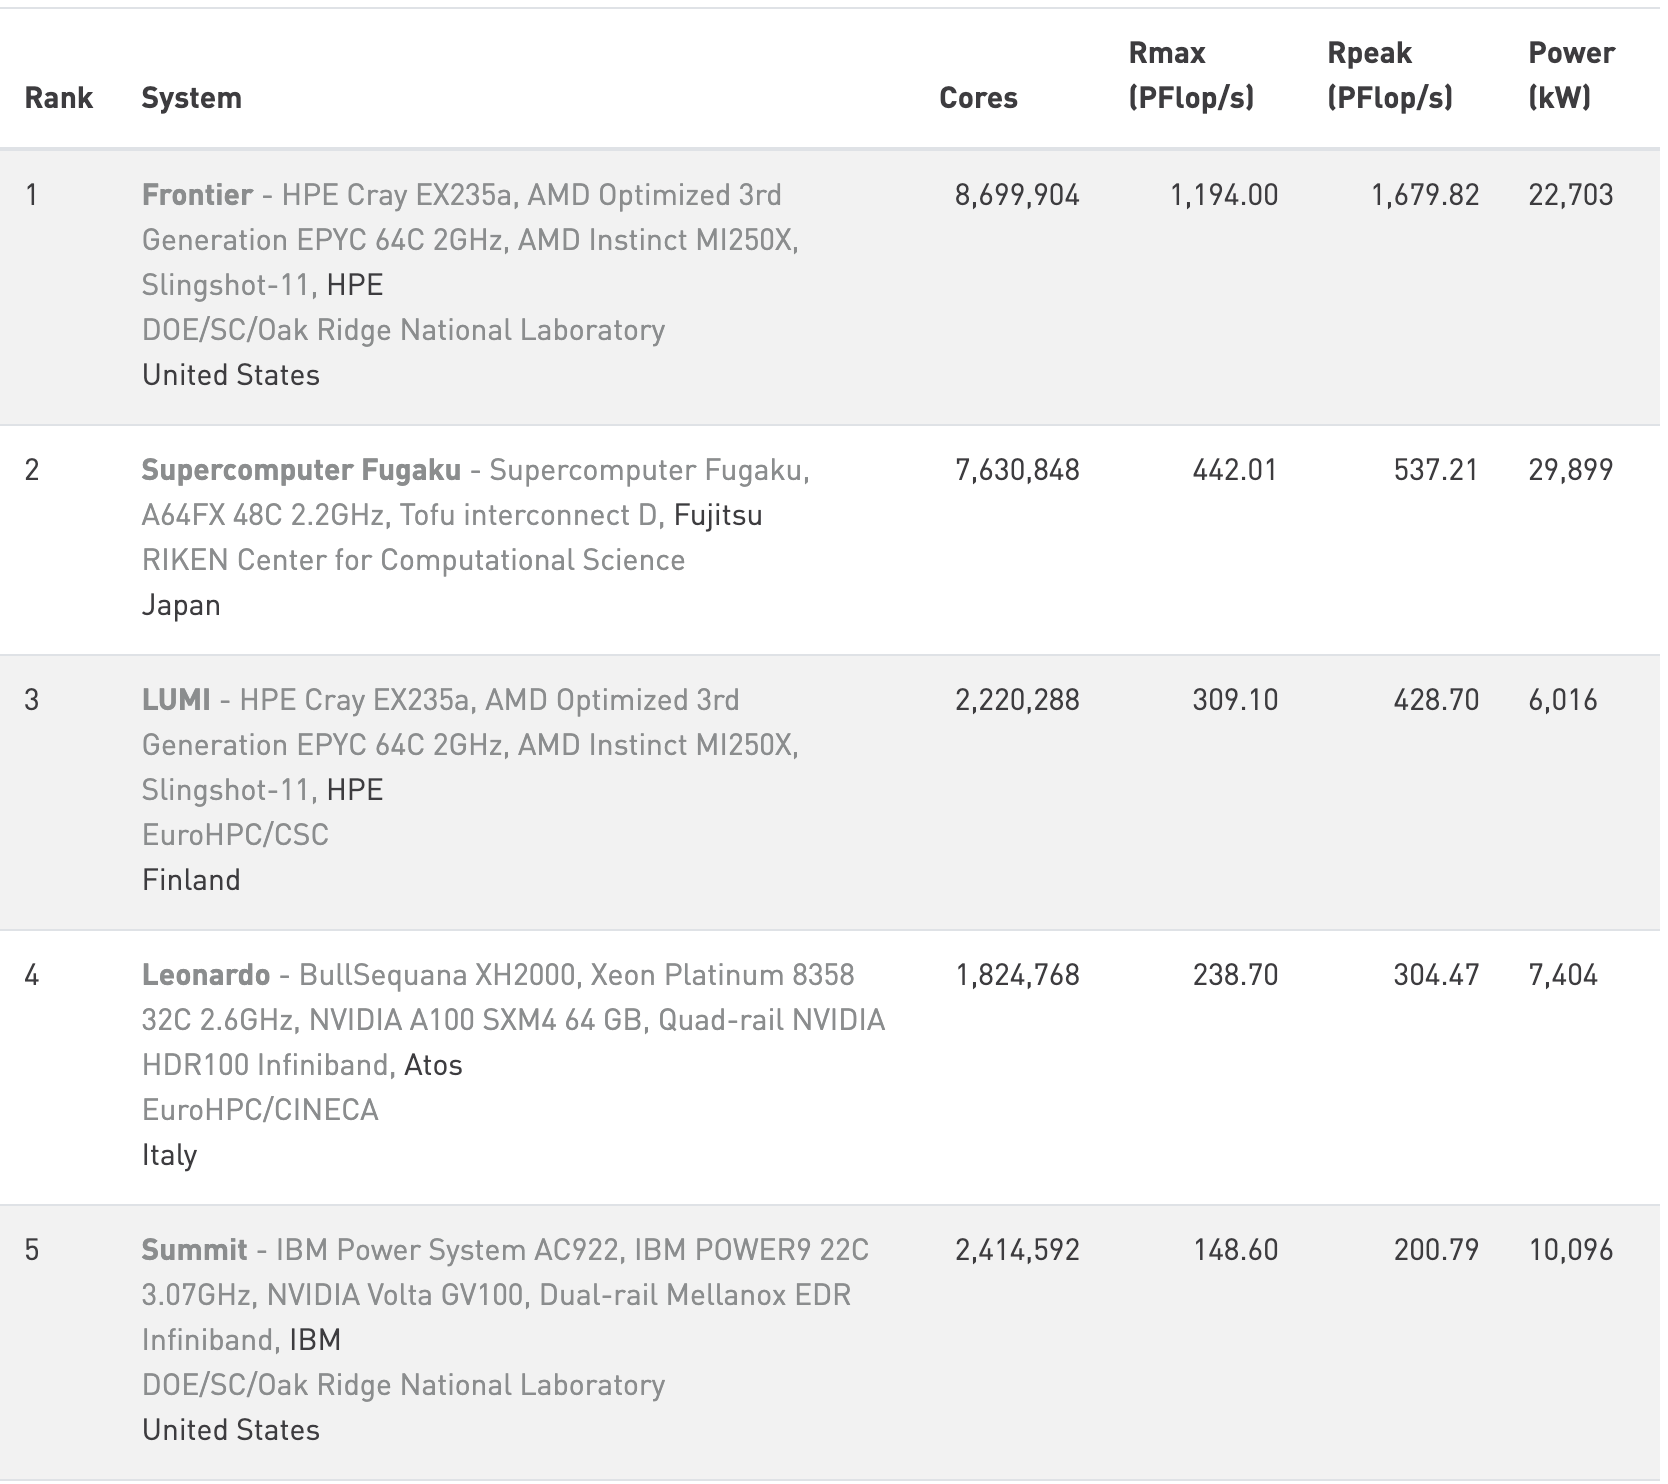
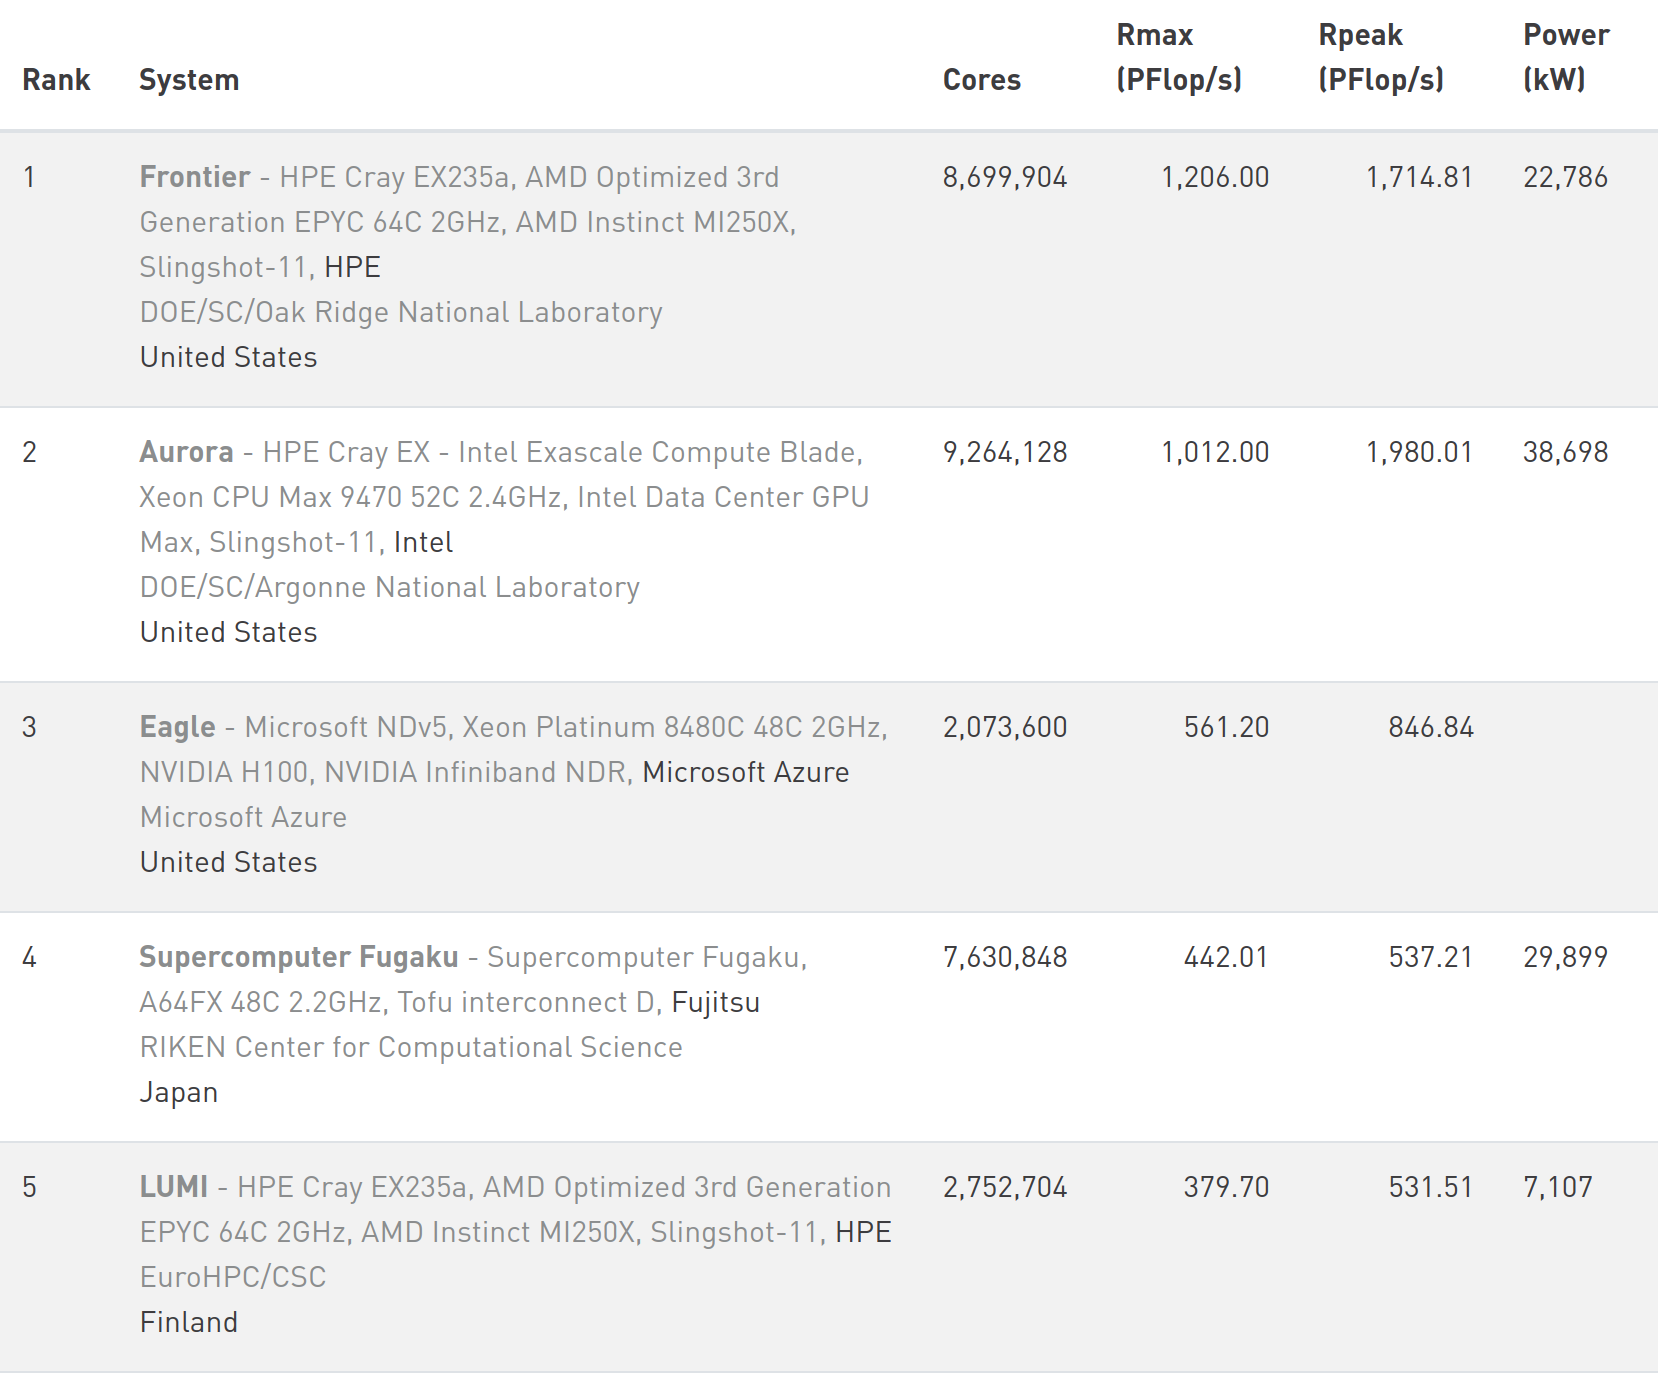
Update TOP500 list

diff --git a/content/1-gpu-history.rst b/content/1-gpu-history.rst
@@ -90,7 +90,7 @@ with an accompanying change in the programming paradigm.
 A look at the Top-500 list
 --------------------------
 
-The `TOP500 project <https://www.top500.org/>`__ ranks and details the 500 most powerful non-distributed computer systems in the world. The project was started in 1993 and publishes an updated list of the supercomputers twice a year. The snapshot below shows the top-5 HPC systems as of June 2023, where the columns show:
+The `TOP500 project <https://www.top500.org/>`__ ranks and details the 500 most powerful non-distributed computer systems in the world. The project was started in 1993 and publishes an updated list of the supercomputers twice a year. The snapshot below shows the top-5 HPC systems as of June 2024, where the columns show:
 
 - **Cores** - Number of processors 
 - **Rmax** - Maximal LINPACK performance achieved
@@ -100,9 +100,9 @@ The `TOP500 project <https://www.top500.org/>`__ ranks and details the 500 most 
 .. figure:: img/history/top-5.png
    :align: center
 
-   Snapshot from the `Top500 list from June, 2023 <https://www.top500.org/lists/top500/2023/06/>`__.
+   Snapshot from the `TOP500 list from June, 2024 <https://www.top500.org/lists/top500/2024/06/>`__.
 
-All systems in the top-5 positions contain GPUs from AMD or NVIDIA, except for Fugaku which instead relies on custom-built Arm A64FX CPUs.
+All systems in the top-5 positions contain GPUs from AMD, Intel, or NVIDIA, except for Fugaku which instead relies on custom-built Arm A64FX CPUs.
 
 
 Why GPUs?
@@ -117,7 +117,7 @@ Improved energy efficiency
 ^^^^^^^^^^^^^^^^^^^^^^^^^^
 
 Compared to CPUs, GPUs can perform more calculations per watt of power consumed, 
-which can result in significant energy savings. This is indeed evident from the `Green500 list <https://www.top500.org/lists/green500/2023/06/>`__.
+which can result in significant energy savings. This is indeed evident from the `Green500 list <https://www.top500.org/lists/green500/2024/06/>`__.
 
 Cost-effectiveness 
 ^^^^^^^^^^^^^^^^^^
